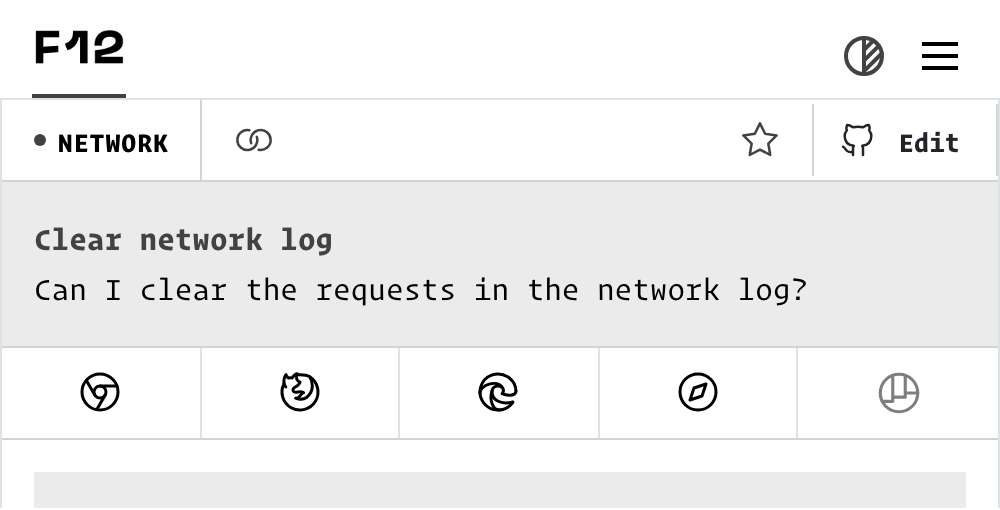
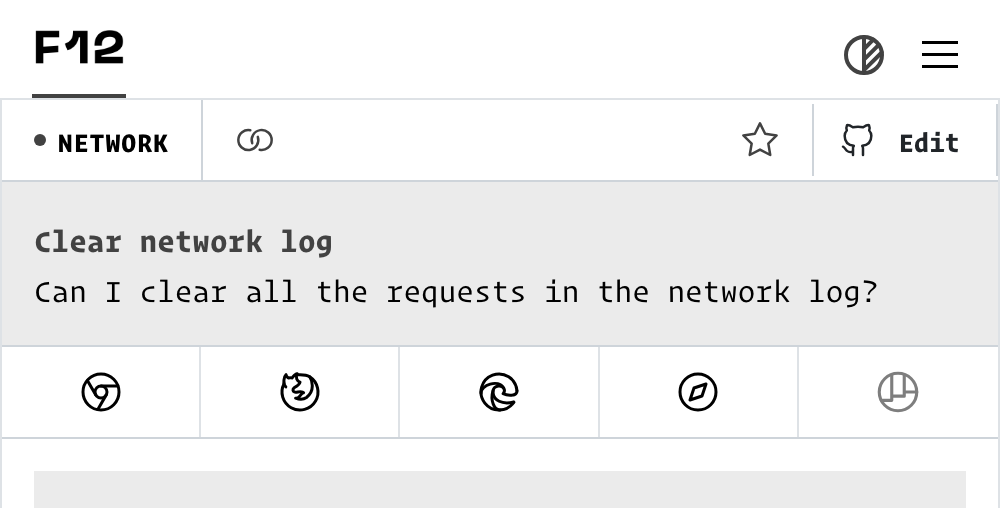
added videos

diff --git a/README.md b/README.md
@@ -413,7 +413,7 @@ Can I clear the previous commands in the console?
 - Alternatively, you can run `console.clear()` in the console to clear the previous commands.
 
 ## Clear network log
-Can I clear the requests in the network log?
+Can I clear all the requests in the network log?
 
 [Chrome](https://canidev.tools/clear-network-log/chrome): 
 - In the **Network** panel, click the **Clear network log** button in the toolbar or press `Cmd+K` or `Ctrl+L` to clear all the network requests.
@@ -423,6 +423,9 @@ Can I clear the requests in the network log?
 
 [Edge](https://canidev.tools/clear-network-log/edge): 
 - In the **Network** panel, click the **Clear network log** button in the toolbar or press `Cmd+K` or `Ctrl+L` to clear all the network requests.
+
+
+![](https://res.cloudinary.com/canidevtools/image/upload/v1705270880/clear-network-log-edge-v1.png)
 
 [Safari](https://canidev.tools/clear-network-log/safari): 
 - In the **Network** panel, click the **Clear Network Items** button or press `Cmd+K` to clear all the network requests.
